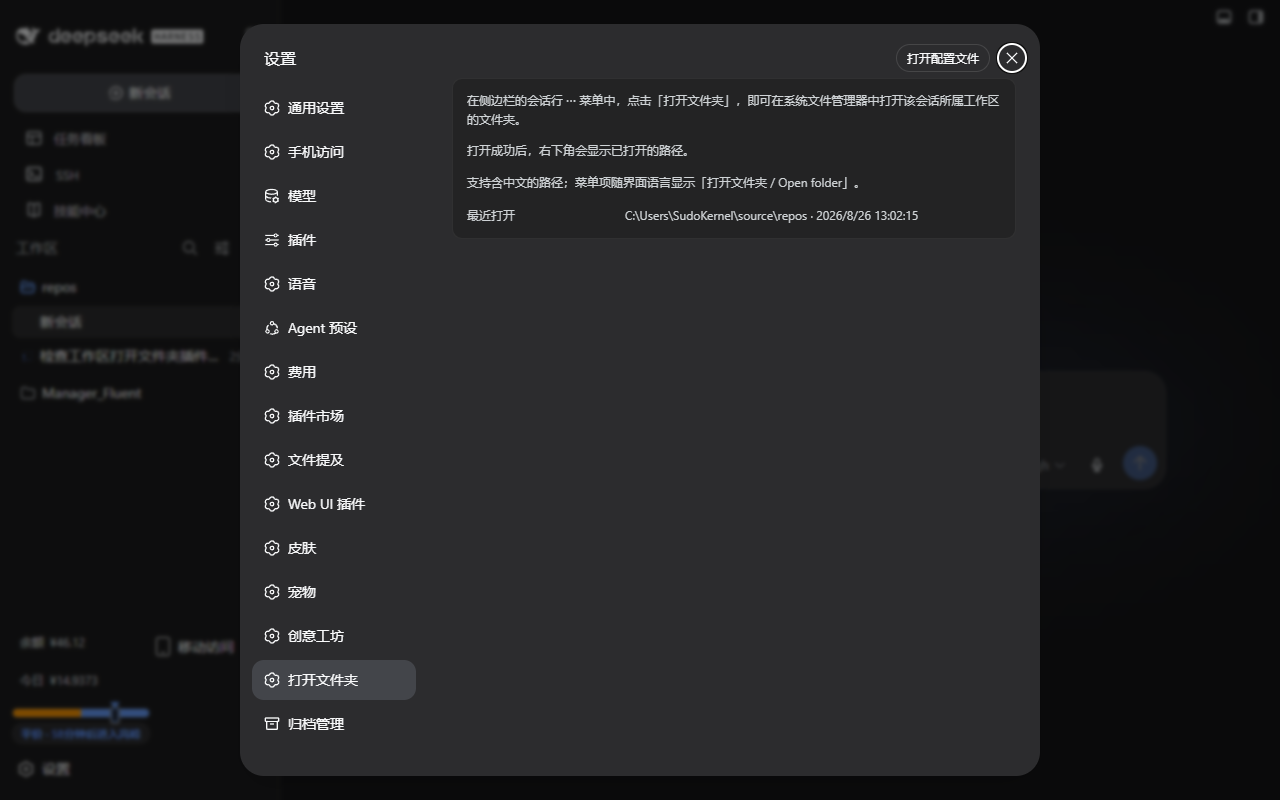
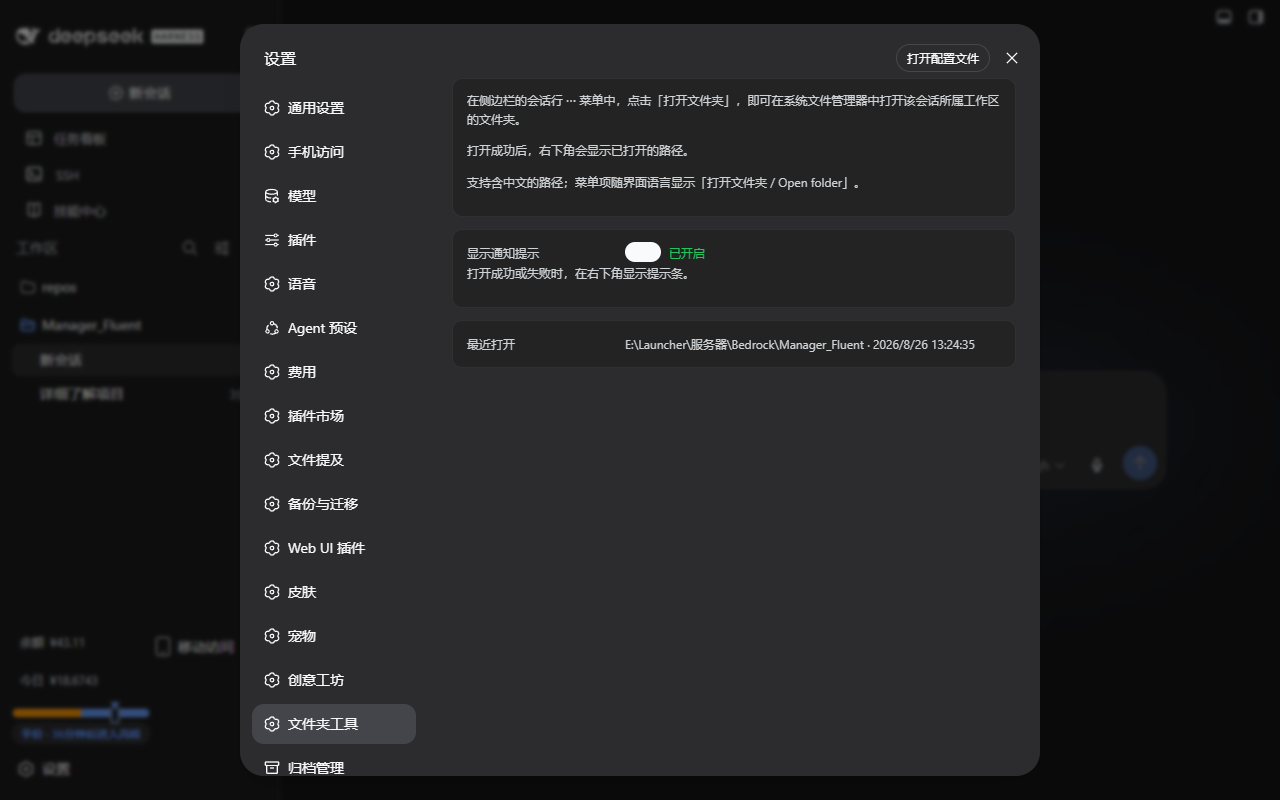
feat(settings): add toast-notification toggle and rename section to Folder tools (v0.6.0)

diff --git a/lib/client.js b/lib/client.js
@@ -45,10 +45,11 @@ window.__ModuleLoader__.load({
 		const { createElement: el } = React;
 
 		const PLUGIN = "dsh-open-folder";
-		const VERSION = "0.5.0";
+		const VERSION = "0.6.0";
 		const MAX_EVENTS = 40;
 		const MAX_ERRORS = 8;
 		const OPEN_ENDPOINT = "/plugins/dsh-open-folder/open";
+		const TOAST_KEY = "dsh-open-folder.toast-enabled";
 
 		/** 16px folder-open glyph (IconFolderOpen16 path data). */
 		const FOLDER_ICON_SVG =
@@ -60,10 +61,14 @@ window.__ModuleLoader__.load({
 		/** Localized strings; every user-visible message comes from here. */
 		const T = {
 			zh: {
-				sectionLabel: "打开文件夹",
+				sectionLabel: "文件夹工具",
 				intro: "在侧边栏的会话行 ⋯ 菜单中，点击「打开文件夹」，即可在系统文件管理器中打开该会话所属工作区的文件夹。",
 				introPoint1: "打开成功后，右下角会显示已打开的路径。",
 				introPoint2: "支持含中文的路径；菜单项随界面语言显示「打开文件夹 / Open folder」。",
+				toastLabel: "显示通知提示",
+				toastHint: "打开成功或失败时，在右下角显示提示条。",
+				toastOn: "已开启",
+				toastOff: "已关闭",
 				lastOpenedLabel: "最近打开",
 				lastOpenedNone: "（暂无）",
 				item: "打开文件夹",
@@ -73,10 +78,14 @@ window.__ModuleLoader__.load({
 				failNoCapability: "打开文件夹失败：当前宿主不支持打开本地路径"
 			},
 			en: {
-				sectionLabel: "Open folder",
+				sectionLabel: "Folder tools",
 				intro: 'Click "Open folder" in the ⋯ menu of a session row in the sidebar to open that session\'s workspace folder in your file manager.',
 				introPoint1: "After a successful open, the path is shown in a notification at the bottom-right.",
 				introPoint2: "Paths containing non-ASCII characters are supported; the menu item follows the UI language (\"Open folder\" / \"打开文件夹\").",
+				toastLabel: "Show notifications",
+				toastHint: "Show a toast at the bottom-right when opening succeeds or fails.",
+				toastOn: "On",
+				toastOff: "Off",
 				lastOpenedLabel: "Last opened",
 				lastOpenedNone: "(none)",
 				item: "Open folder",
@@ -129,12 +138,36 @@ window.__ModuleLoader__.load({
 				try { return new Date(at).toLocaleString(); } catch { return String(at); }
 			};
 			const lastOpened = diag?.lastOpened ?? null;
+			const toastEnabled = diag?.toastEnabled !== false;
+
+			const toggleToast = () => {
+				api.setToastEnabled(!toastEnabled);
+			};
 
 			return el("div", { className: "dof-root" },
 				el("div", { className: "dof-card" },
 					el("p", { className: "dof-note" }, t.intro),
 					el("p", { className: "dof-note" }, t.introPoint1),
-					el("p", { className: "dof-note" }, t.introPoint2),
+					el("p", { className: "dof-note" }, t.introPoint2)
+				),
+
+				el("div", { className: "dof-card" },
+					el("div", { className: "dof-row" },
+						el("span", { className: "k" }, t.toastLabel),
+						el("button", {
+							type: "button",
+							role: "switch",
+							"aria-checked": toastEnabled ? "true" : "false",
+							"aria-label": t.toastLabel,
+							className: "dof-switch" + (toastEnabled ? " on" : ""),
+							onClick: toggleToast
+						}, el("span", { className: "dof-switch-knob" })),
+						el("span", { className: "dof-switch-state " + (toastEnabled ? "dof-ok" : "dof-neu") }, toastEnabled ? t.toastOn : t.toastOff)
+					),
+					el("p", { className: "dof-note" }, t.toastHint)
+				),
+
+				el("div", { className: "dof-card" },
 					el("div", { className: "dof-row" },
 						el("span", { className: "k" }, t.lastOpenedLabel),
 						lastOpened !== null
@@ -156,7 +189,14 @@ window.__ModuleLoader__.load({
 				events: [],
 				errors: [],
 				lastOpened: null,
-				test: null
+				test: null,
+				toastEnabled: (() => {
+					try {
+						const v = localStorage.getItem(TOAST_KEY);
+						if (v !== null) return v !== "0";
+					} catch {}
+					return true;
+				})()
 			});
 
 			const uiLang = () => {
@@ -234,9 +274,11 @@ window.__ModuleLoader__.load({
 				return row instanceof Element ? row : null;
 			};
 
-			/** A visible, self-dismissing notice (dark/light theme aware). */
+			/** A visible, self-dismissing notice (dark/light theme aware).
+			 * Suppressed when the user turned toast notifications off in settings. */
 			const showToast = (message, kind) => {
 				try {
+					if (store.getSnapshot().toastEnabled !== true) return;
 					let box = document.getElementById("dsh-open-folder-toast");
 					if (box === null) {
 						box = document.createElement("div");
@@ -519,6 +561,12 @@ window.__ModuleLoader__.load({
 			if (slots !== void 0) {
 				const api = {
 					t: () => t(),
+					setToastEnabled: (enabled) => {
+						store.set((s) => ({ ...s, toastEnabled: enabled === true }));
+						try {
+							localStorage.setItem(TOAST_KEY, enabled === true ? "1" : "0");
+						} catch {}
+					},
 					testOpen: async () => {
 						const target = currentTarget();
 						const path = resolvePath(target);
@@ -648,6 +696,11 @@ window.__ModuleLoader__.load({
 						".dof-evt.error{color:var(--dsw-alias-state-error-primary,#e5534b)}",
 						".dof-evt.ok{color:var(--dsw-alias-state-success-primary,#3ba272)}",
 						".dof-note{font-size:12px;color:var(--dsw-alias-label-secondary,#8f8f96);line-height:1.6;margin:0 0 12px}",
+						".dof-switch{position:relative;flex:none;width:36px;height:20px;border-radius:10px;border:1px solid var(--dsw-alias-border-l1,#3d3d45);background:var(--dsw-alias-bg-layer-2,#2b2b31);cursor:pointer;padding:0;transition:background .15s}",
+						".dof-switch.on{background:var(--dsw-alias-brand-primary,#3d5afe)}",
+						".dof-switch-knob{position:absolute;top:2px;left:2px;width:14px;height:14px;border-radius:50%;background:var(--dsw-alias-label-primary,#f2f2f2);transition:left .15s}",
+						".dof-switch.on .dof-switch-knob{left:18px}",
+						".dof-switch-state{font-size:12px}",
 						".dof-testrow{margin:8px 0}",
 						".dof-btn{display:inline-flex;align-items:center;gap:6px;height:30px;padding:0 14px;border-radius:8px;border:1px solid var(--dsw-alias-border-l1,#3d3d45);background:var(--dsw-alias-bg-layer-2,#2b2b31);color:var(--dsw-alias-label-primary,#f2f2f2);font-size:12px;cursor:pointer}",
 						".dof-btn:hover{background:var(--dsw-alias-bg-overlay,#33333b)}",

diff --git a/README.md b/README.md
@@ -17,7 +17,7 @@ Adds an **Open folder** item to the **⋯** overflow menu of session rows in the
 - 会话行 ⋯ 菜单（重命名 / 分叉会话 / 归档会话）末尾新增「打开文件夹」。
 - 菜单项复用现有菜单项的样式类，跟随主题、支持键盘操作。
 - 自动跟随界面语言（中文界面显示「打开文件夹」，英文界面显示 "Open folder"，错误提示同样本地化）。
-- **设置页说明栏目**：设置 →「打开文件夹」分节，展示使用说明与最近打开的路径。
+- **设置页说明栏目**：设置 →「文件夹工具」分节，展示使用说明、通知开关（可选择是否显示右下角提示）与最近打开的路径。
 - **成功确认提示**：打开成功后右下角显示「已打开文件夹：<路径>」（远程访问/宿主机打开时也能确认操作成功）。
 - **中文路径可靠打开**：内置 `host.openPath` 的 Windows 实现通过 `powershell.exe Invoke-Item` 打开目录，对含中文的路径（如 `E:\Launcher\服务器\...`）会"返回成功但资源管理器不弹出"。插件宿主半新增专属打开端点（`POST /plugins/dsh-open-folder/open`），直接用 `explorer.exe`（UTF-16 参数，中文路径可靠）打开；客户端优先走该端点，端点不可用时回退内置 RPC。
 - **深浅主题适配**：设置页按钮/卡片/提示全部使用真实存在的 `--dsw-alias-*` 主题令牌，浅色/深色主题下均正常显示。

diff --git a/CHANGELOG.md b/CHANGELOG.md
@@ -1,5 +1,10 @@
 # Changelog
 
+## v0.6.0 (2026-08-26)
+
+- **Toast notification switch**: Settings → Folder tools now has a "Show notifications" toggle (persisted in localStorage); when off, the bottom-right success/error toasts are suppressed (events are still logged internally).
+- **Settings section renamed**: "打开文件夹 / Open folder" → "文件夹工具 / Folder tools", making the section a home for future folder/workspace tools.
+
 ## v0.5.0 (2026-08-26)
 
 - **Product-style settings page**: the Settings → Open folder section is now a concise usage note with the last opened path; the developer-style diagnostics (version, capability status, event log, error history, test button) are no longer shown (diagnostics recording stays in place for future troubleshooting).
